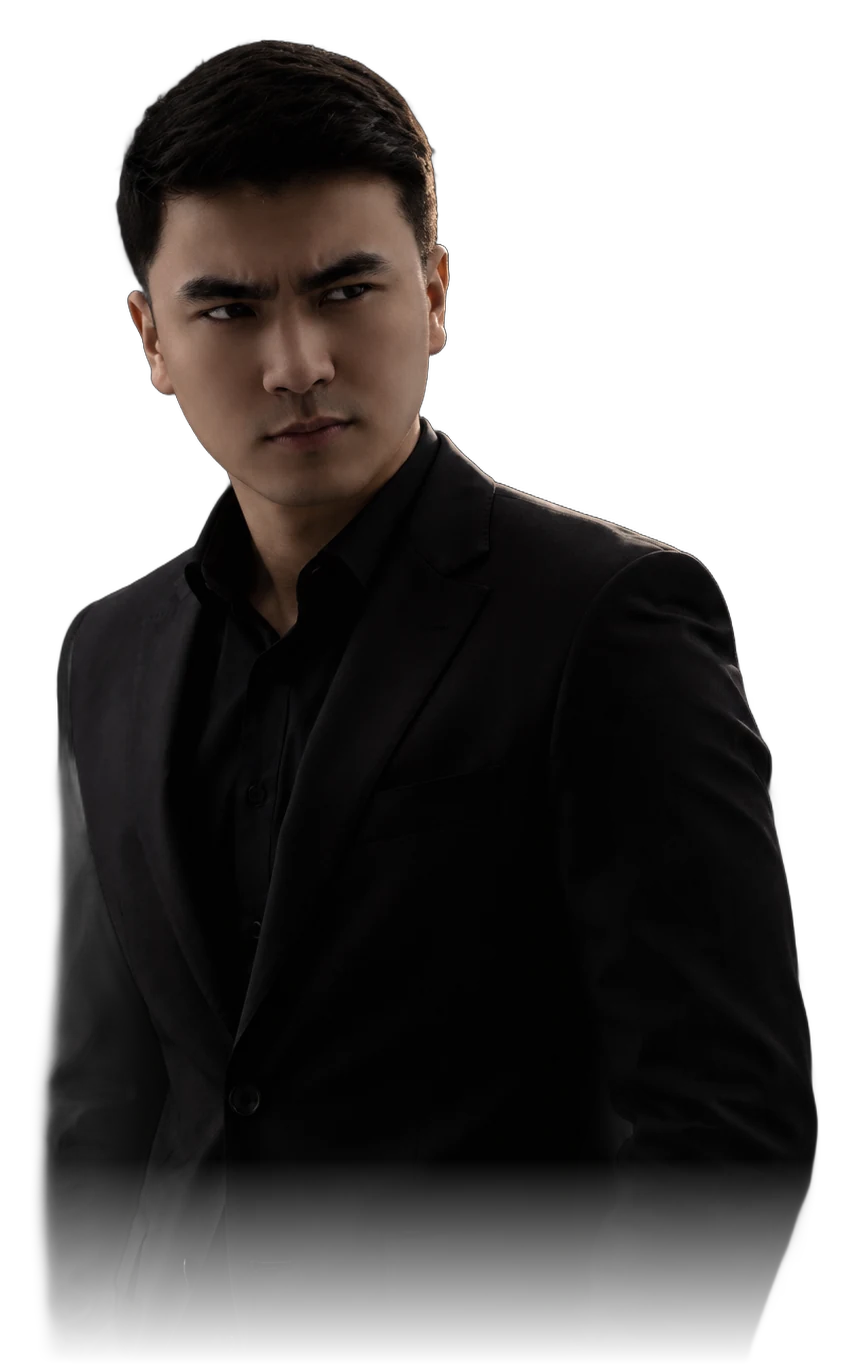
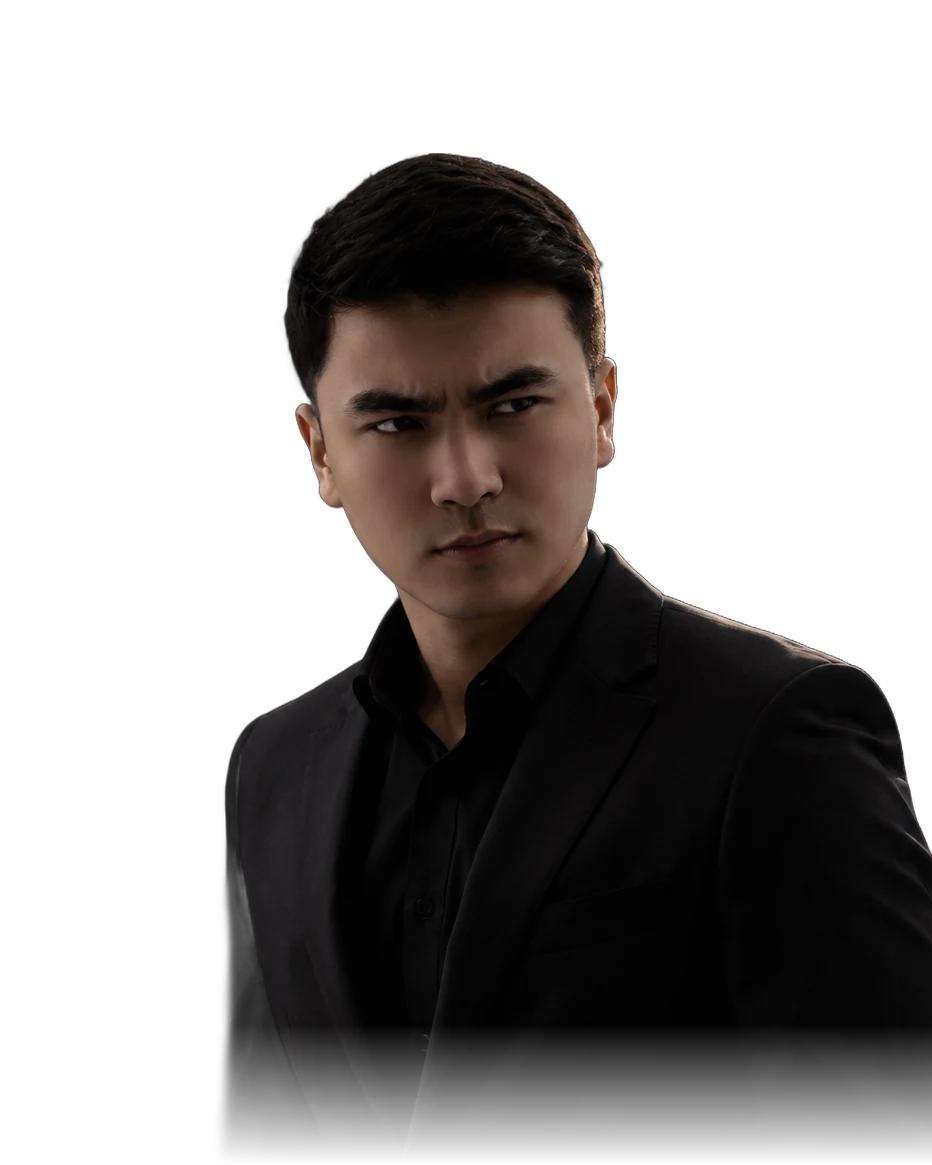
Swap the ring's buzz for moving air, and recompose the standing portrait
The sawtooth was the wrong instrument. Its harmonics are evenly spaced,
which the ear reads as a pitched buzz -- a power tool, not something
turning. What a spinning object actually makes is broadband air noise,
so the source is now a looping white-noise buffer through a bandpass
whose centre sweeps 240 Hz -> 1140 Hz with speed. That rise and fall is
what makes it read as something passing you. A quiet triangle sits
under it for weight; triangle rather than saw because only its odd
harmonics survive and they fall off fast. Peak gain drops from 0.14 to
0.085 and the envelope ramps over 0.12s instead of 0.04s, so the sound
arrives and leaves like air rather than switching on.

Measured after a flick: bandpass at 1068 Hz / Q 2.39, triangle at
97 Hz, master gain 0.078 decaying to 0 across ~2.5s. No oscillator is
a sawtooth any more.

The standing portrait was also composed badly -- the head sat against
the top edge with no headroom, so every crop of it cut close to the
hairline. Recomposed on a 4:5 canvas (the aspect both boxes that use it
are set to, so the crop is now a no-op): face on the upper third, 22%
of the width kept open on the side he is looking toward, the far
shoulder running off the right edge, and the jacket leaving frame at
the bottom under a 12% alpha fade.

Claude-Session: https://claude.ai/code/session_01FcqxNavgRavVSHbDtvzFpS

diff --git a/src/components/editorial/Projects.tsx b/src/components/editorial/Projects.tsx
@@ -52,9 +52,10 @@ const ARROW_KICK = 260;
  * (BASE_SPEED) and an extra angular velocity the visitor can add by dragging
  * or by pressing an arrow. The extra decays exponentially back to zero, so
  * after a hard flick the ring slows on its own to its normal rhythm rather
- * than either stopping dead or spinning forever. A grinding sawtooth plays
- * only while the extra velocity is well above the base, with its gain and
- * pitch tied to how fast the ring is actually going -- silent at rest.
+ * than either stopping dead or spinning forever. The sound is the air the
+ * ring moves: filtered noise whose band and level follow the speed, so a
+ * flick is a soft whoosh that thins out as the ring coasts down -- silent
+ * at rest.
  *
  * The audio graph is built lazily on the first pointer press: browsers reject
  * an AudioContext.resume() that has not seen a user gesture, so constructing
@@ -82,14 +83,27 @@ export function Projects() {
   const draggedFar = useRef(false);
 
   /**
-   * The audio graph: a sawtooth oscillator through a lowpass into a gain,
-   * kept running from first press until unmount. The gain is what turns the
-   * sound on and off; the oscillator itself never stops.
+   * The audio graph, running from the first press until unmount. The gain is
+   * what turns the sound on and off; the source never stops.
+   *
+   * A sawtooth through a lowpass was the obvious choice and the wrong one:
+   * its harmonics are evenly spaced, which the ear hears as a pitched buzz --
+   * a power tool, not a moving object. What a spinning thing actually makes
+   * is broadband air noise, so the source here is white noise through a
+   * bandpass. Sweeping the band with speed gives the rising-and-falling
+   * whoosh of something passing you, and because noise has no fundamental
+   * there is no note to clash with the ambient track.
+   *
+   * The quiet triangle underneath is body, not pitch -- one soft partial so
+   * the whoosh has some weight behind it. Triangle rather than saw: only odd
+   * harmonics, and they fall off fast.
    */
   const audio = useRef<{
     ctx: AudioContext;
-    osc: OscillatorNode;
-    lp: BiquadFilterNode;
+    noise: AudioBufferSourceNode;
+    band: BiquadFilterNode;
+    tone: OscillatorNode;
+    toneGain: GainNode;
     gain: GainNode;
   } | null>(null);
 
@@ -108,20 +122,41 @@ export function Projects() {
         (window as unknown as { webkitAudioContext: typeof AudioContext })
           .webkitAudioContext;
       const ctx = new Ctx();
-      const osc = ctx.createOscillator();
-      osc.type = "sawtooth";
-      osc.frequency.value = 55;
-      const lp = ctx.createBiquadFilter();
-      lp.type = "lowpass";
-      lp.frequency.value = 350;
-      lp.Q.value = 0.6;
+
+      // Two seconds of white noise, looped. Long enough that the loop point
+      // is inaudible; short enough to be cheap to generate.
+      const frames = ctx.sampleRate * 2;
+      const buffer = ctx.createBuffer(1, frames, ctx.sampleRate);
+      const data = buffer.getChannelData(0);
+      for (let i = 0; i < frames; i++) data[i] = Math.random() * 2 - 1;
+      const noise = ctx.createBufferSource();
+      noise.buffer = buffer;
+      noise.loop = true;
+
+      // The band the whoosh lives in. A gentle Q: sharper would whistle,
+      // flatter would just be hiss.
+      const band = ctx.createBiquadFilter();
+      band.type = "bandpass";
+      band.frequency.value = 320;
+      band.Q.value = 1.1;
+
+      const tone = ctx.createOscillator();
+      tone.type = "triangle";
+      tone.frequency.value = 70;
+      const toneGain = ctx.createGain();
+      toneGain.gain.value = 0.35;
+
       const gain = ctx.createGain();
       gain.gain.value = 0;
-      osc.connect(lp).connect(gain).connect(ctx.destination);
-      osc.start();
-      audio.current = { ctx, osc, lp, gain };
+
+      noise.connect(band).connect(gain);
+      tone.connect(toneGain).connect(gain);
+      gain.connect(ctx.destination);
+      noise.start();
+      tone.start();
+      audio.current = { ctx, noise, band, tone, toneGain, gain };
     } catch {
-      // No Web Audio -- the ring still turns, just without the grinding.
+      // No Web Audio -- the ring still turns, just without the whoosh.
     }
   };
 
@@ -179,28 +214,35 @@ export function Projects() {
       if (Math.abs(extraVel.current) < 0.5) extraVel.current = 0;
 
       // Drive the audio from the same |extraVel|. Below a small floor the
-      // sound is off entirely -- otherwise the idle drift would hum at rest.
+      // sound is off entirely -- otherwise the idle drift would hiss at rest.
       if (audio.current) {
-        const { ctx, osc, lp, gain } = audio.current;
+        const { ctx, band, tone, toneGain, gain } = audio.current;
         const t = ctx.currentTime;
         const excess = Math.abs(extraVel.current);
-        const audible = Math.max(0, excess - 25); // deadzone
-        // Gain ramps up quickly and down slowly, so a hard flick lands
-        // instantly but the tail fades naturally.
-        const targetGain = reduced.matches ? 0 : Math.min(0.14, audible / 900);
-        gain.gain.setTargetAtTime(targetGain, t, 0.04);
-        // Pitch and lowpass cutoff both track speed, so the sound feels
-        // heavier when the ring is moving fast and thinner as it slows.
-        osc.frequency.setTargetAtTime(
-          45 + Math.min(160, audible * 0.35),
-          t,
-          0.05,
-        );
-        lp.frequency.setTargetAtTime(
-          300 + Math.min(900, audible * 1.6),
-          t,
-          0.05,
-        );
+        const audible = Math.max(0, excess - 30); // deadzone
+        // How hard the ring is going, 0..1, curved so the loud end arrives
+        // gradually instead of pinning the moment you flick it.
+        const drive = Math.min(1, audible / 520);
+        const curve = Math.pow(drive, 0.7);
+
+        // Quiet on purpose: this plays under the ambient track, and a whoosh
+        // that competes with the music is the same mistake as the buzz.
+        const targetGain = reduced.matches ? 0 : curve * 0.085;
+        // Slower ramp than the old 0.04 -- air builds and falls away, it does
+        // not switch on.
+        gain.gain.setTargetAtTime(targetGain, t, 0.12);
+
+        // The band sweeps up as the ring speeds up: that rise and fall is
+        // what makes it read as something passing rather than as static.
+        band.frequency.setTargetAtTime(240 + curve * 900, t, 0.09);
+        // Opening the Q slightly at speed narrows the band, which sharpens
+        // the whoosh right when the motion is most obvious.
+        band.Q.setTargetAtTime(1.1 + curve * 1.4, t, 0.09);
+
+        // Body underneath, held well below the noise and moving less, so it
+        // reads as weight rather than as a note.
+        tone.frequency.setTargetAtTime(62 + curve * 38, t, 0.12);
+        toneGain.gain.setTargetAtTime(0.22 + curve * 0.2, t, 0.12);
       }
 
       world.style.setProperty("--ed-spin", `${spin.current}deg`);
@@ -319,7 +361,8 @@ export function Projects() {
       const a = audio.current;
       if (!a) return;
       try {
-        a.osc.stop();
+        a.noise.stop();
+        a.tone.stop();
       } catch {
         // already stopped
       }

diff --git a/src/components/editorial/portrait.ts b/src/components/editorial/portrait.ts
@@ -22,4 +22,10 @@ export const PORTRAIT_STANDING: string | null = portraitStanding;
  * gets cut off.
  */
 export const FACE_FOCUS = "76% 16%";
-export const FACE_FOCUS_STANDING = "40% 22%";
+/**
+ * The standing frame is already composed at 4:5 -- the aspect both boxes
+ * that use it are set to -- so `cover` shows all of it and this value only
+ * matters if a future section picks a different shape. Centred horizontally,
+ * biased up so the face survives a wider crop.
+ */
+export const FACE_FOCUS_STANDING = "50% 38%";
